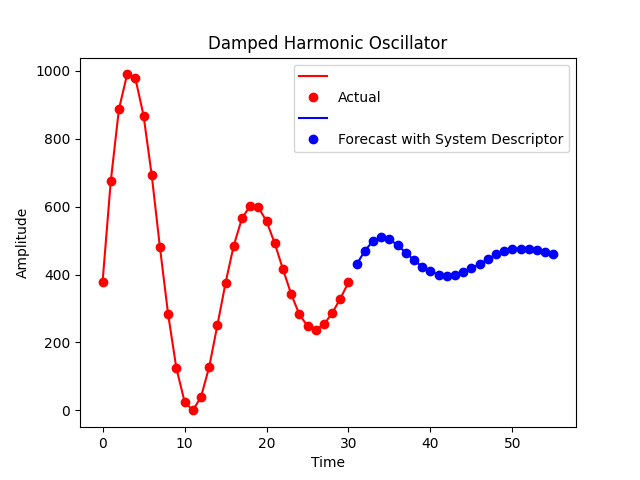
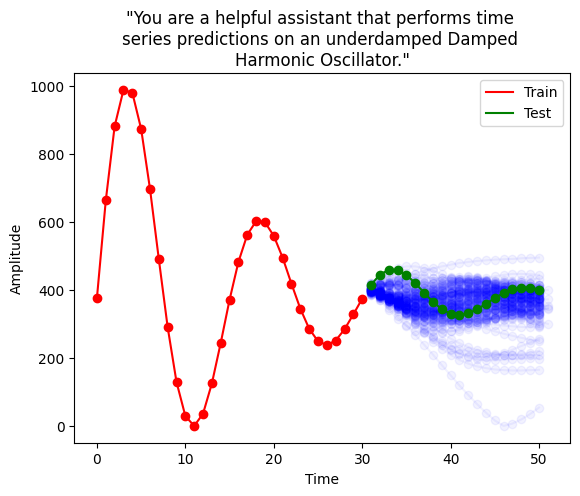
major updates, prompt comparison

diff --git a/main.py b/main.py
@@ -17,8 +17,10 @@ sine_wave=lambda x: np.sin(2*np.pi*x)
 # Generate input sequence
 dg=dataGenerator(t_max=2, samples=31, noise=0.0,fxn=damped_harmonic_oscillator)
 input=dg.generateStringOutput()
+
+
 def genNextSequence(inputSeq):
-    sysPrompt="You are a helpful assistant that performs time series predictions. Please continue the following sequence without producing any additional text, just return the numbers. "
+    sysPrompt="You are a helpful assistant that performs time series predictions on an underdamped Damped Harmonic Oscillator. Please continue the following sequence without producing any additional text, just return the next twenty numbers. "
     prompt=inputSeq
 
     completion = client.chat.completions.create(
@@ -28,33 +30,21 @@ def genNextSequence(inputSeq):
         {"role": "user", "content": prompt}
     ],
     max_tokens=50,
-    #n=50 # Number of samples to generate, can be used to generate multiple samples and store them for later
+    n=20
     )
     return completion
 
-try:
-    generatedNumbers = genNextSequence(input).choices[0].message.content
-except:
-    print("Error in response from OpenAI API.")
-    exit(1)
+plt.plot(range(0,len(input.split(" "))),[int(y) for y in input.split(" ")], 'r')
+plt.plot(range(0,len(input.split(" "))),[int(y) for y in input.split(" ")], 'ro')
+
+for message in genNextSequence(input).choices:
+    generatedSamples=[int(stringNumber) for stringNumber in message.message.content.split(" ")]
+    plt.plot(range(len(input.split(" ")), len(input.split(" ")) + len(generatedSamples)), generatedSamples, 'b', alpha=0.1)
+    plt.plot(range(len(input.split(" ")), len(input.split(" ")) + len(generatedSamples)), generatedSamples, 'bo', alpha=0.1)
 
 
-try:
-    generatedSamples=[int(stringNumber) for stringNumber in generatedNumbers.split(" ") if stringNumber != ""]
-    plt.plot(range(0,len(input.split(" "))),[int(y) for y in input.split(" ")], 'r')
-    plt.plot(range(0,len(input.split(" "))),[int(y) for y in input.split(" ")], 'ro')
-    plt.plot(range(len(input.split(" ")), len(input.split(" ")) + len(generatedSamples)), generatedSamples, 'b')
-    plt.plot(range(len(input.split(" ")), len(input.split(" ")) + len(generatedSamples)), generatedSamples, 'bo')
-    plt.xlabel("Time")
-    plt.ylabel("Amplitude")
-    plt.title("Damped Harmonic Oscillator")
-    plt.legend(["","Actual","","Forecast without System Descriptor"])
-    plt.show()
-
-except:
-    print("Error: Generated numbers do not match expected format.")
-    print("Expected: ['number', ' ', 'number', ' ', 'number', ' ', ... etc], got: " + generatedNumbers)
-    #TODO: Add retry logic.
-    exit(1)
-
+plt.xlabel("Time")
+plt.ylabel("Amplitude")
+plt.title("Damped Harmonic Oscillator")
+plt.show()
 
